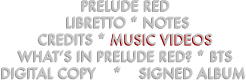
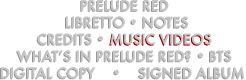
new edits

diff --git a/preludered/static/preludered/pr-main.css b/preludered/static/preludered/pr-main.css
@@ -23,7 +23,7 @@ img[usemap], map area{
         text-align: center;
     }
         .nav {
-            padding:40px 0 0 0;
+            padding:40px 0;
             width:100%;
             max-width: 400px;
             text-align:center;
@@ -40,9 +40,6 @@ img[usemap], map area{
                 color:#ca1520;
             }
 
-        .albumCover {
-            padding:142px 0 0 0;
-        }
             .albumCover img.cover {
                 -webkit-box-shadow: -20px 20px 5px 0px rgba(0,0,0,0.30);
                 -moz-box-shadow: -20px 20px 5px 0px rgba(0,0,0,0.30);
@@ -50,23 +47,18 @@ img[usemap], map area{
                 width: 400px !important;
                 height: 400px !important;
             }
-        .libretto {
-            padding:89px 0 0 0;
-        }
-        .notes {
-            padding:142px 0 0 0;
-        }
 
-        .credits {
-            padding:142px 0 0 0;
-        }
-
-        .musicVideos {
-            padding:142px 0 0 0;
-            width:535px;
-            position:relative;
-            left:-62px;
-        }
+            .libretto {
+                padding-top:89px;
+            }
+            .notes, .credits, .albumCover, .musicVideos, .whatsinpreludered   {
+                padding:142px 0 0;
+            }
+            .musicVideos {
+                width:535px;
+                position:relative;
+                left:-62px;
+            }
 
     .columnRight {
         float:right;
@@ -132,7 +124,7 @@ img[usemap], map area{
     */
     filter: drop-shadow(-20px 20px 3px rgba(0,0,0,0.30));
 }
-.musicVideos .fotorama__stage {
+.musicVideos .fotorama__stage__shaft {
     filter: drop-shadow(-20px 20px 3px rgba(0,0,0,0.30));
 }
     .musicVideos .fotorama__arr--prev {left: 5px !important}
@@ -149,6 +141,8 @@ img[usemap], map area{
 
     .credits .fotorama__stage .fotorama__img, .notes .fotorama__stage .fotorama__img, .whatsinpreludered .fotorama__stage .fotorama__img {width: 400px !important;height: 400px !important;margin: 0 20px 0 12px !important}
         .credits .fotorama__fullscreen-icon, .notes .fotorama__fullscreen-icon, .whatsinpreludered .fotorama__fullscreen-icon{top: -4px !important;right: 32px !important}
+
+    .musicVideos .fotorama__stage .fotorama__img {width: 535px !important;height: 400px !important;margin: 0 20px 0 12px !important}
 }
 @media screen and (max-width: 986px) {
     .columnLeft {
@@ -185,7 +179,7 @@ img[usemap], map area{
        left:0;
     }
 
-    div.notes, div.credits, div.libretto {
+    div.notes, div.credits, div.libretto, .div.whatsinpreludered {
         padding-top:30px;
     }
 

diff --git a/preludered/templates/preludered/nav-music-videos.html b/preludered/templates/preludered/nav-music-videos.html
@@ -3,7 +3,7 @@
              data-allowfullscreen="true"
              data-nav="false"
              data-shuffle="true"
-             data-width="535"
+             data-width="565"
              data-arrows="true"
              data-loop="true">
              {% for video in music_videos %}
@@ -25,17 +25,21 @@
         top: 0;
         width: 100%;
         text-align: center;
-        height:52px;
+        height: 40px
     }
     div.fotorama__caption__wrap {
         background:none;
         color:#fff;
         font-family: 'Libre Baskerville', serif;
-        font-style: normal;
-        font-size: 20px;
-        line-height: 2.5;
+        font-style: italic;
         padding: 0;
+        font-size: 15px;
+        line-height: 40px
     }
-    .nav {margin-left: 6px;
+    @media screen and (min-width: 987px) { 
+        .nav {margin-left: 6px}
+        div.fotorama__caption__wrap {font-size: 15px;line-height: 50px}
+        div.fotorama__caption {height:50px}
     }
+
 </style>
